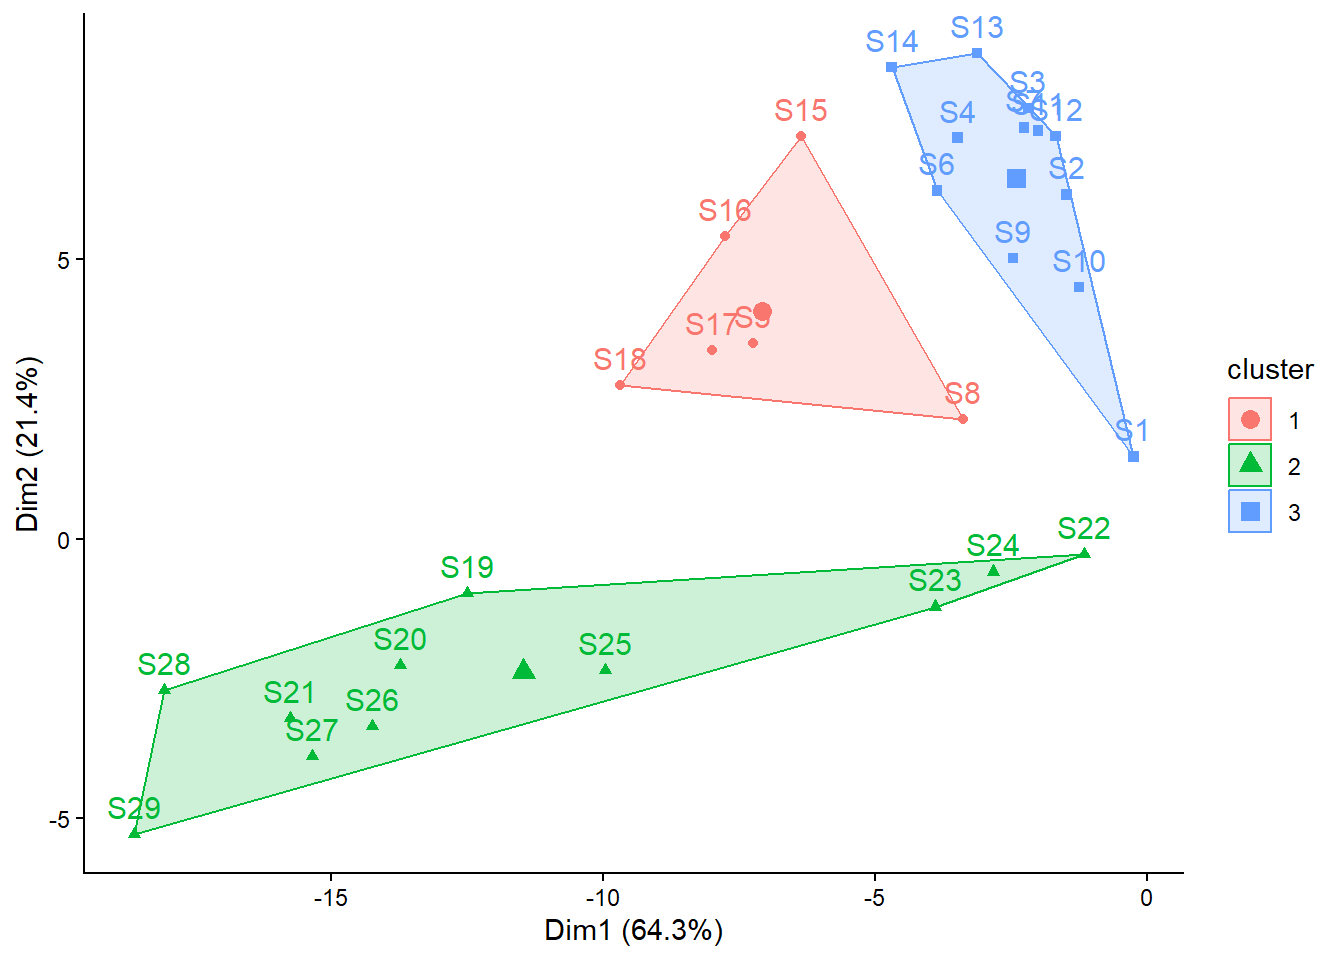
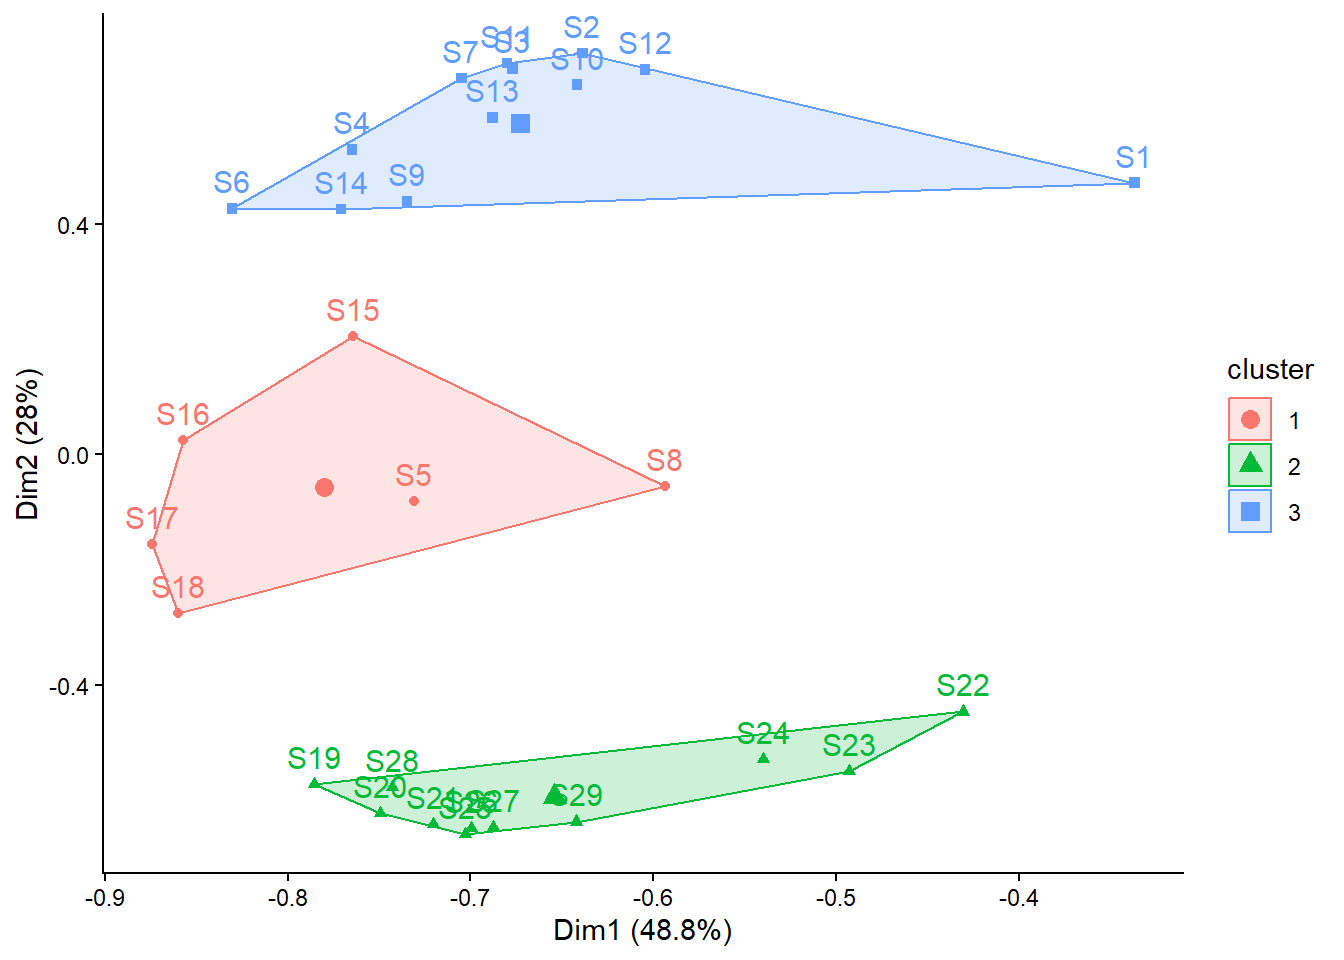
Built site for gh-pages

diff --git a/statistik/Statistik8_Demo.html b/statistik/Statistik8_Demo.html
@@ -1001,7 +1001,7 @@ S29         7</code></pre>
 <span id="cb15-4"><a href="#cb15-4" aria-hidden="true" tabindex="-1"></a></span>
 <span id="cb15-5"><a href="#cb15-5" aria-hidden="true" tabindex="-1"></a></span>
 <span id="cb15-6"><a href="#cb15-6" aria-hidden="true" tabindex="-1"></a><span class="co">#  Clustering-Resultat in Ordinationsplots darstellen</span></span>
-<span id="cb15-7"><a href="#cb15-7" aria-hidden="true" tabindex="-1"></a><span class="fu">fviz_cluster</span>(kmeans_2, <span class="at">stand =</span> <span class="cn">FALSE</span>, <span class="at">data =</span> spe) <span class="sc">+</span></span>
+<span id="cb15-7"><a href="#cb15-7" aria-hidden="true" tabindex="-1"></a><span class="fu">fviz_cluster</span>(kmeans_2, <span class="at">stand =</span> <span class="cn">FALSE</span>, <span class="at">data =</span> spe_norm) <span class="sc">+</span></span>
 <span id="cb15-8"><a href="#cb15-8" aria-hidden="true" tabindex="-1"></a>  <span class="fu">theme_classic</span>() <span class="sc">+</span></span>
 <span id="cb15-9"><a href="#cb15-9" aria-hidden="true" tabindex="-1"></a>  <span class="fu">theme</span>(<span class="at">plot.title =</span> <span class="fu">element_blank</span>())</span></code></pre></div><button title="In die Zwischenablage kopieren" class="code-copy-button"><i class="bi"></i></button></div>
 <div class="cell-output-display">

diff --git a/statistik/Statistik2_Uebung.html b/statistik/Statistik2_Uebung.html
@@ -798,7 +798,7 @@ pre > code.sourceCode > span > a:first-child::before { text-decoration: underlin
   ..   Unterart = col_factor(levels = NULL, ordered = FALSE, include_na = FALSE),
   ..   Jahreszeit = col_factor(levels = NULL, ordered = FALSE, include_na = FALSE)
   .. )
- - attr(*, "problems")=&lt;pointer: 0x00000247c51bd5a0&gt; </code></pre>
+ - attr(*, "problems")=&lt;pointer: 0x0000020e147d5da0&gt; </code></pre>
 </div>
 <div class="code-copy-outer-scaffold"><div class="sourceCode cell-code" id="cb3"><pre class="sourceCode r code-with-copy"><code class="sourceCode r"><span id="cb3-1"><a href="#cb3-1" aria-hidden="true" tabindex="-1"></a><span class="fu">summary</span>(kormoran)</span></code></pre></div><button title="In die Zwischenablage kopieren" class="code-copy-button"><i class="bi"></i></button></div>
 <div class="cell-output cell-output-stdout">

diff --git a/statistik/Statistik3_Demo.html b/statistik/Statistik3_Demo.html
@@ -1053,7 +1053,7 @@ F-statistic: 11.14 on 2 and 12 DF,  p-value: 0.001842</code></pre>
   ..   Fruit = col_double(),
   ..   Grazing = col_character()
   .. )
- - attr(*, "problems")=&lt;pointer: 0x000001bebd4fecd0&gt; </code></pre>
+ - attr(*, "problems")=&lt;pointer: 0x000001f0c89f3300&gt; </code></pre>
 </div>
 <div class="code-copy-outer-scaffold"><div class="sourceCode cell-code" id="cb29"><pre class="sourceCode r code-with-copy"><code class="sourceCode r"><span id="cb29-1"><a href="#cb29-1" aria-hidden="true" tabindex="-1"></a><span class="fu">summary</span>(compensation)</span></code></pre></div><button title="In die Zwischenablage kopieren" class="code-copy-button"><i class="bi"></i></button></div>
 <div class="cell-output cell-output-stdout">

diff --git a/statistik/Statistik4_Demo.html b/statistik/Statistik4_Demo.html
@@ -782,7 +782,7 @@ pre > code.sourceCode > span > a:first-child::before { text-decoration: underlin
   ..   GRAZE = col_double(),
   ..   ALT = col_double()
   .. )
- - attr(*, "problems")=&lt;pointer: 0x000002066effd7f0&gt; </code></pre>
+ - attr(*, "problems")=&lt;pointer: 0x000002c557ff9500&gt; </code></pre>
 </div>
 <div class="code-copy-outer-scaffold"><div class="sourceCode cell-code" id="cb4"><pre class="sourceCode r code-with-copy"><code class="sourceCode r"><span id="cb4-1"><a href="#cb4-1" aria-hidden="true" tabindex="-1"></a><span class="fu">summary</span>(loyn)</span></code></pre></div><button title="In die Zwischenablage kopieren" class="code-copy-button"><i class="bi"></i></button></div>
 <div class="cell-output cell-output-stdout">

diff --git a/statistik/Statistik2_Demo.html b/statistik/Statistik2_Demo.html
@@ -967,8 +967,8 @@ Fit: aov(formula = size ~ cultivar, data = blume2)
 
 Linear Hypotheses:
                     Estimate Std. Error t value Pr(&gt;|t|)    
-Bulli - Andro == 0    -3.900      1.979  -1.971  0.13879    
-Chroma - Andro == 0    8.000      1.979   4.043  0.00114 ** 
+Bulli - Andro == 0    -3.900      1.979  -1.971  0.13874    
+Chroma - Andro == 0    8.000      1.979   4.043  0.00105 ** 
 Chroma - Bulli == 0   11.900      1.979   6.014  &lt; 0.001 ***
 ---
 Signif. codes:  0 '***' 0.001 '**' 0.01 '*' 0.05 '.' 0.1 ' ' 1

diff --git a/statistik/Statistik4_Uebung.html b/statistik/Statistik4_Uebung.html
@@ -904,7 +904,7 @@ pre > code.sourceCode > span > a:first-child::before { text-decoration: underlin
   ..   Temperature_range = col_double(),
   ..   Precipitation = col_double()
   .. )
- - attr(*, "problems")=&lt;pointer: 0x0000024f9eef4440&gt; </code></pre>
+ - attr(*, "problems")=&lt;pointer: 0x000001d127cdcb90&gt; </code></pre>
 </div>
 </div>
 <p>Man erkennt, dass alle Spalten bis auf die erste mit der Plot ID numerisch (num) sind. Wir können nun die Variable “PlotID” als rownames setzten</p>
